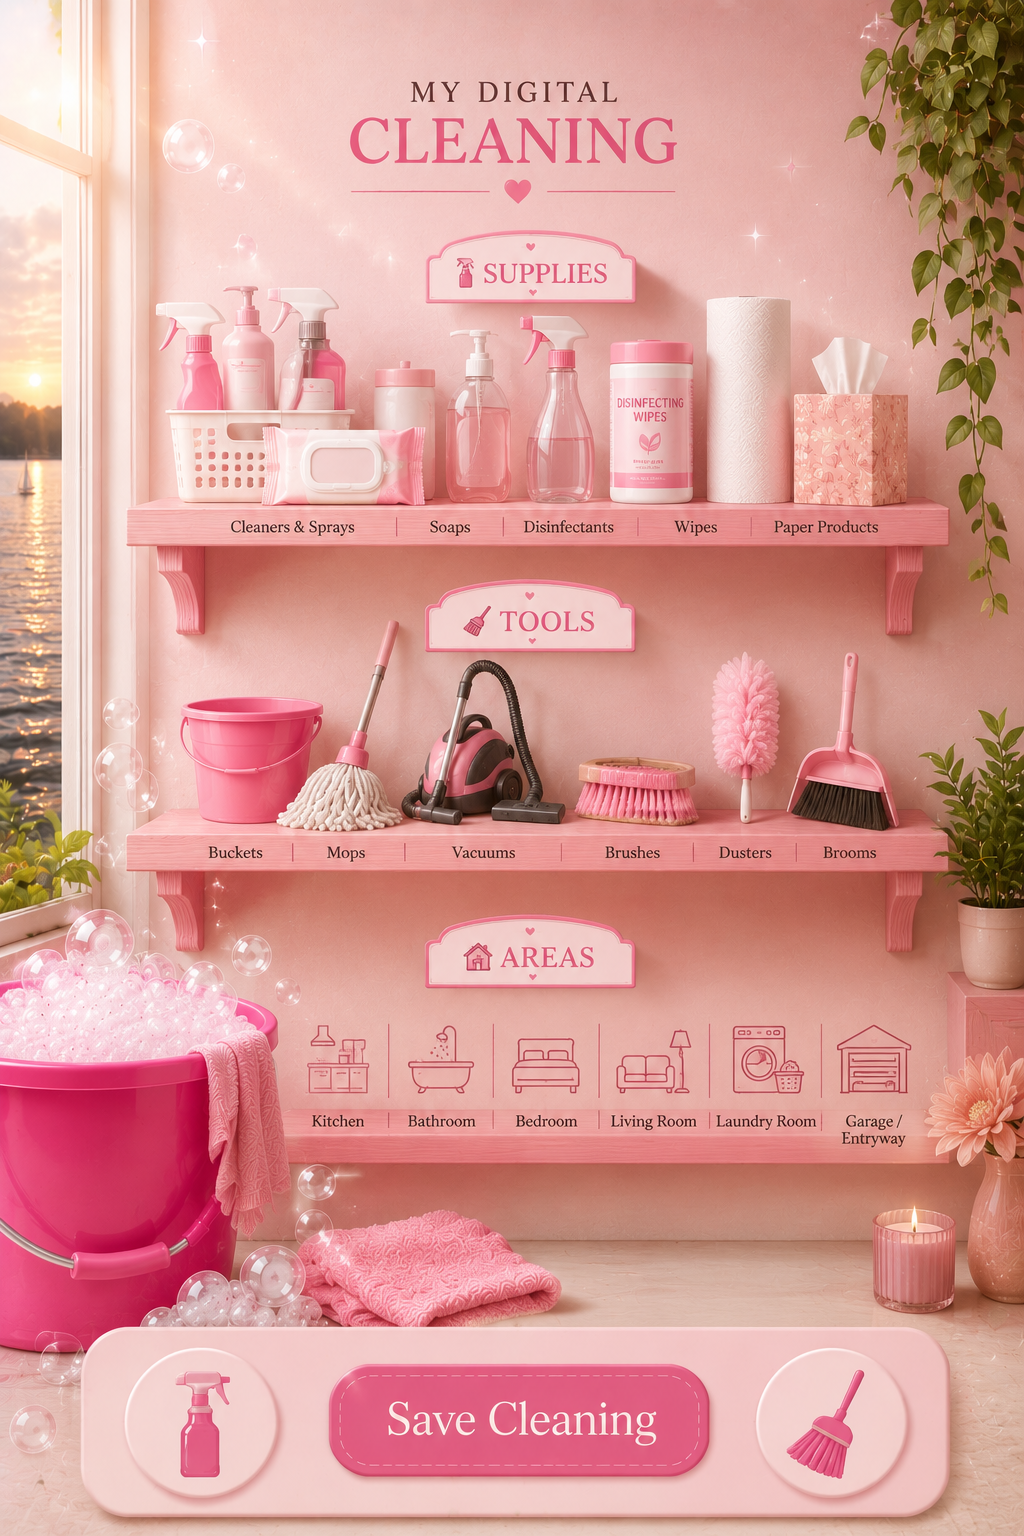
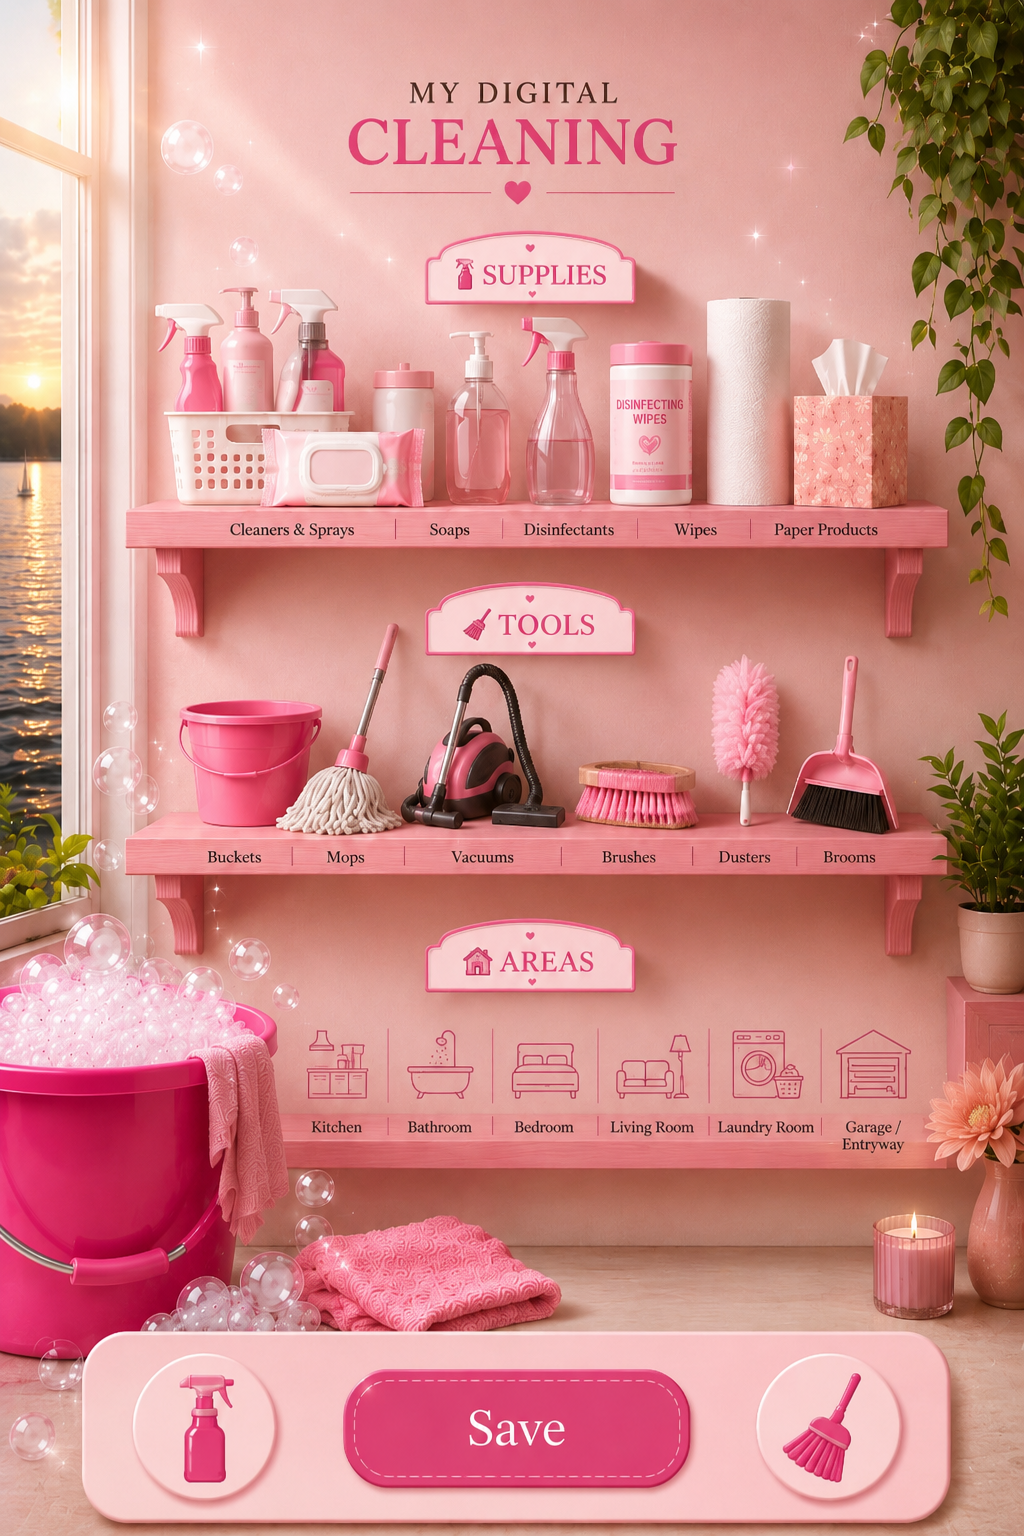
Replace welcome hero image and update button to 'Start Cleaning'

Changed region(s): [[0.0, 0.0, 1.0, 1.0], [0.7188, 0.1875, 0.75, 0.2188]]

diff --git a/artifacts/outfit-generator/src/pages/welcome.tsx b/artifacts/outfit-generator/src/pages/welcome.tsx
@@ -97,7 +97,7 @@ export default function WelcomePage({ onEnter }: Props) {
             pointerEvents: exiting ? "none" : "auto",
           }}
         >
-          Open App ✨
+          Start Cleaning 🧹
         </motion.button>
       </div>
 
